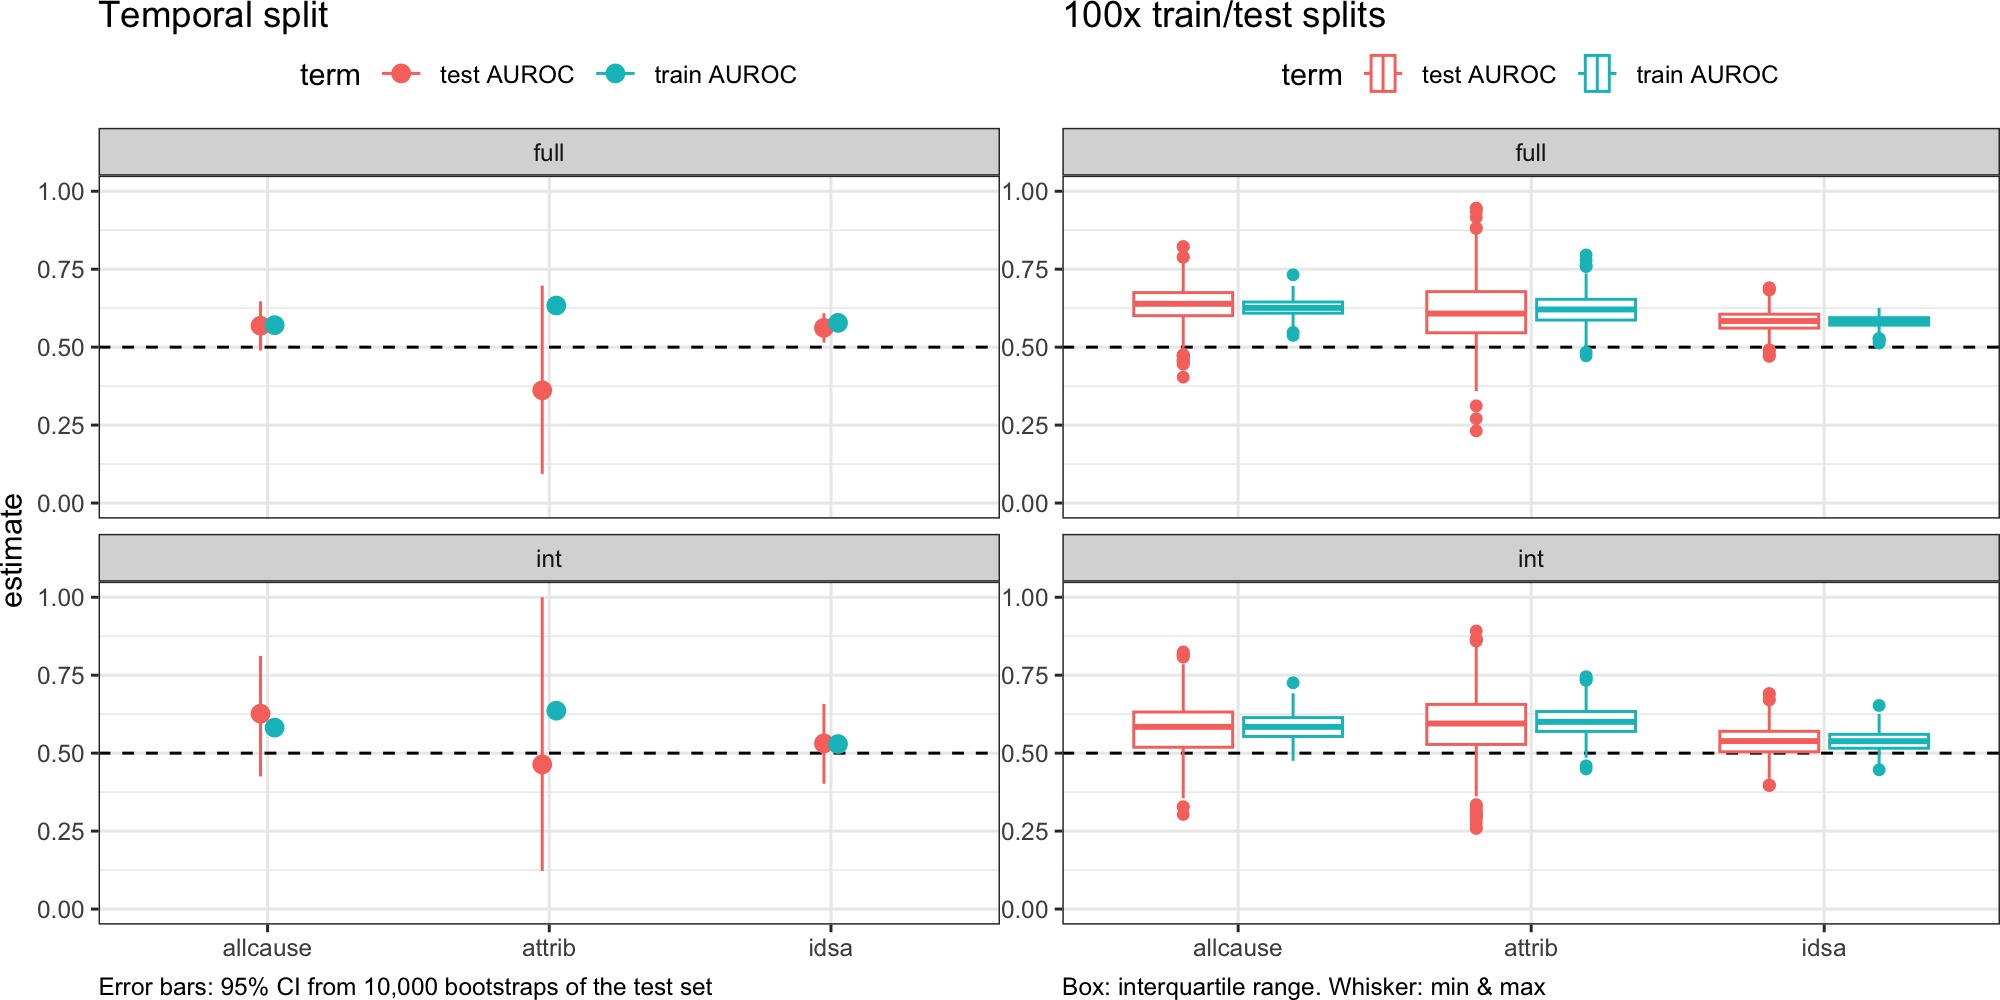
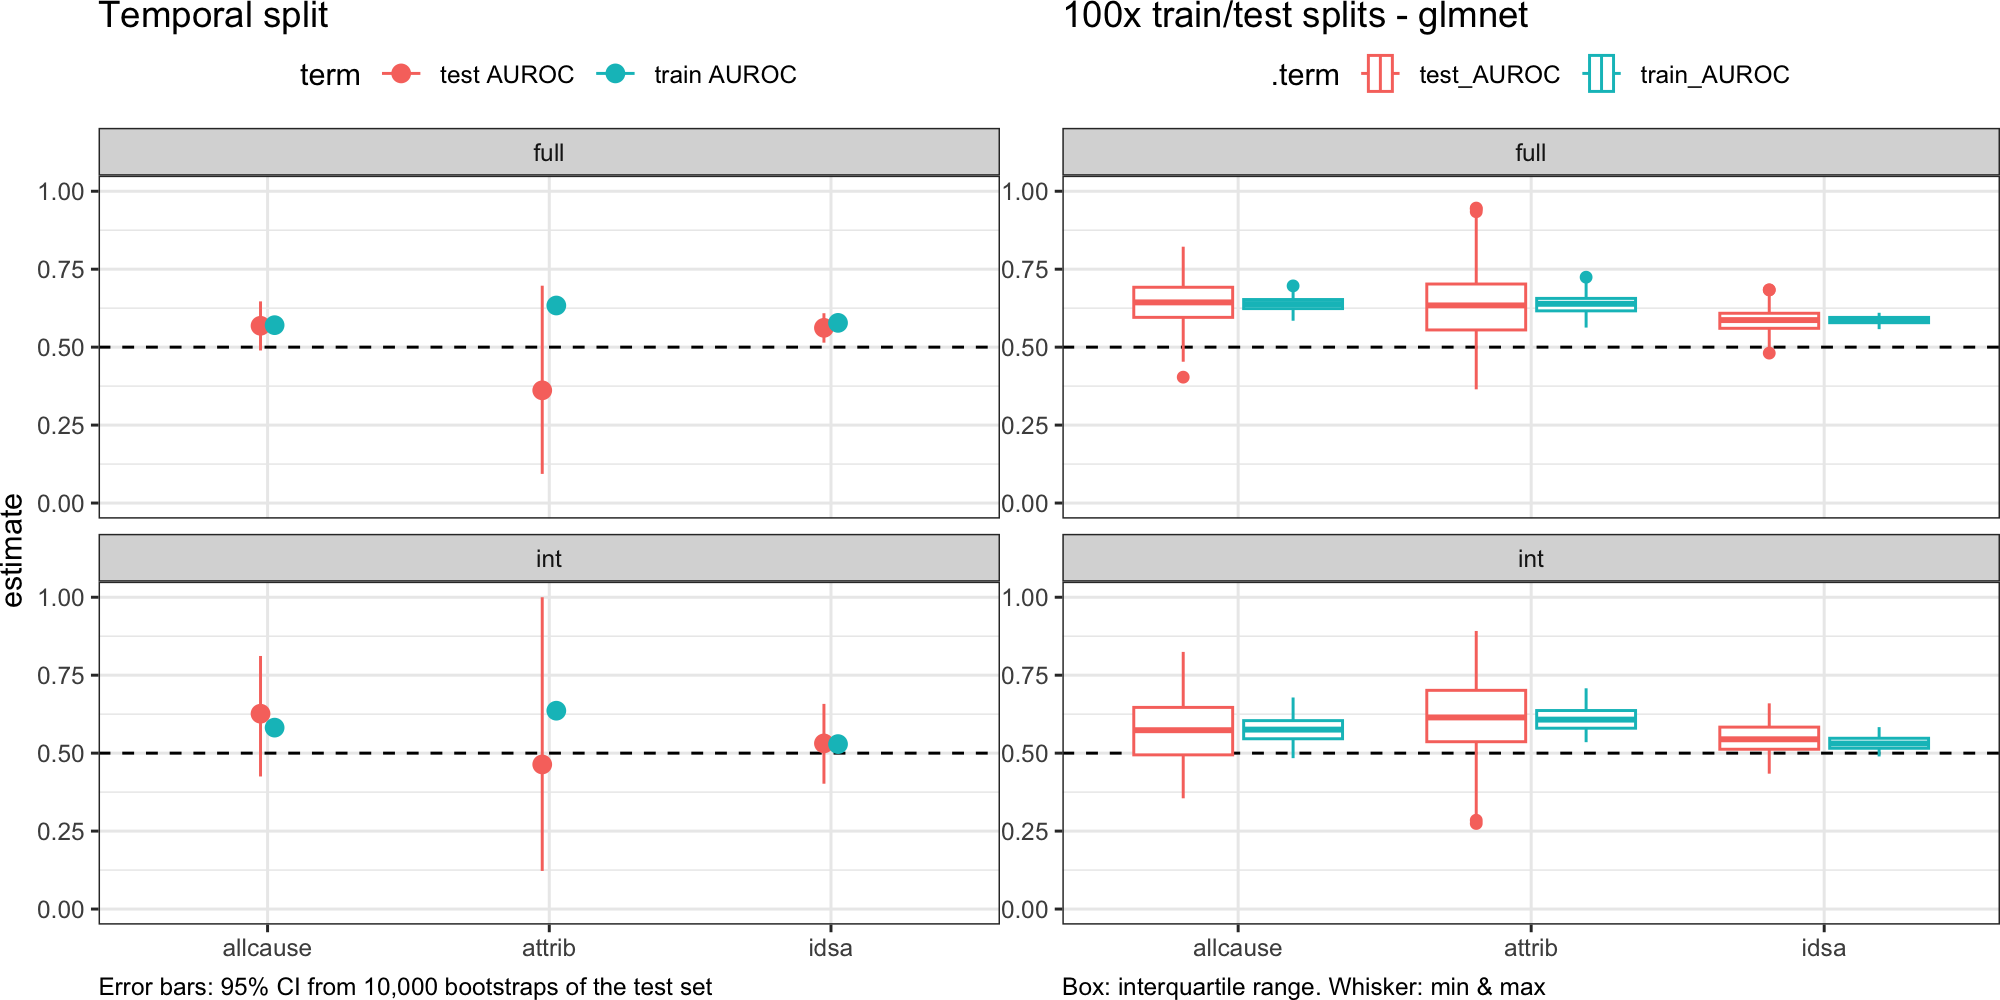
Compare models better

diff --git a/workflow/notebooks/temporal-split.md b/workflow/notebooks/temporal-split.md
@@ -131,21 +131,21 @@ int_pctl(boots, perf) %>%
 
 | term              |    .lower | .estimate |    .upper | .alpha | .method    |
 |:------------------|----------:|----------:|----------:|-------:|:-----------|
-| Accuracy          | 0.6068681 | 0.6505495 | 0.7093407 |   0.05 | percentile |
-| AUC               | 0.4379423 | 0.5509932 | 0.6409095 |   0.05 | percentile |
+| Accuracy          | 0.5288462 | 0.6241758 | 0.6788462 |   0.05 | percentile |
+| AUC               | 0.4338608 | 0.5161223 | 0.5724632 |   0.05 | percentile |
 | Balanced_Accuracy | 0.5000000 | 0.5000000 | 0.5000000 |   0.05 | percentile |
 | cv_metric_AUC     | 0.5290527 | 0.5290527 | 0.5290527 |   0.05 | percentile |
-| Detection_Rate    | 0.0000000 | 0.5230769 | 0.7093407 |   0.05 | percentile |
-| F1                | 0.7633687 | 0.7902767 | 0.8306818 |   0.05 | percentile |
+| Detection_Rate    | 0.0000000 | 0.3670330 | 0.6739011 |   0.05 | percentile |
+| F1                | 0.6880284 | 0.7577616 | 0.8074837 |   0.05 | percentile |
 | Kappa             | 0.0000000 | 0.0000000 | 0.0000000 |   0.05 | percentile |
-| logLoss           | 0.6083392 | 0.6499141 | 0.6790278 |   0.05 | percentile |
-| Neg_Pred_Value    | 0.6060440 | 0.6373626 | 0.6686813 |   0.05 | percentile |
-| Pos_Pred_Value    | 0.6173077 | 0.6538462 | 0.7104396 |   0.05 | percentile |
-| prAUC             | 0.4455217 | 0.5163332 | 0.5829405 |   0.05 | percentile |
-| Precision         | 0.6173077 | 0.6538462 | 0.7104396 |   0.05 | percentile |
-| Recall            | 0.0000000 | 0.8000000 | 1.0000000 |   0.05 | percentile |
-| Sensitivity       | 0.0000000 | 0.8000000 | 1.0000000 |   0.05 | percentile |
-| Specificity       | 0.0000000 | 0.2000000 | 1.0000000 |   0.05 | percentile |
+| logLoss           | 0.6310862 | 0.6715483 | 0.7405178 |   0.05 | percentile |
+| Neg_Pred_Value    | 0.5780220 | 0.6428571 | 0.6703297 |   0.05 | percentile |
+| Pos_Pred_Value    | 0.5247253 | 0.6117216 | 0.6771978 |   0.05 | percentile |
+| prAUC             | 0.4573865 | 0.4967072 | 0.5315906 |   0.05 | percentile |
+| Precision         | 0.5247253 | 0.6117216 | 0.6771978 |   0.05 | percentile |
+| Recall            | 0.0000000 | 0.6000000 | 1.0000000 |   0.05 | percentile |
+| Sensitivity       | 0.0000000 | 0.6000000 | 1.0000000 |   0.05 | percentile |
+| Specificity       | 0.0000000 | 0.4000000 | 1.0000000 |   0.05 | percentile |
 
 ## Plot performance
 
@@ -170,22 +170,56 @@ perf_temp_plot
 
 ``` r
 perf_dat_100 <- data.table::fread(here("results", "performance_results_aggregated.csv")) %>%
-    pivot_longer(c("cv_metric_AUC", "AUC"), names_to = "term", values_to = "estimate") %>%
-    mutate(term = case_when(term == "cv_metric_AUC" ~ "train AUROC", term == "AUC" ~
-        "test AUROC", TRUE ~ term))
-perf_100_plot <- perf_dat_100 %>%
-    ggplot(aes(x = estimate, y = outcome, color = term)) + geom_vline(xintercept = 0.5,
-    linetype = "dashed") + geom_boxplot() + xlim(0, 1) + facet_wrap("dataset", ncol = 1) +
-    coord_flip() + labs(title = "100x train/test splits", caption = "Box: interquartile range. Whisker: min & max") +
-    theme_sovacool() + theme(legend.position = "top", axis.title.x = element_blank(),
-    axis.title.y = element_blank(), plot.caption = element_text(hjust = 0))
-perf_100_plot
+    filter(trainfrac == 0.8, taxlevel == "OTU") %>%
+    pivot_longer(c("cv_metric_AUC", "AUC"), names_to = ".term", values_to = ".estimate") %>%
+    mutate(.term = case_when(.term == "cv_metric_AUC" ~ "train_AUROC", .term == "AUC" ~
+        "test_AUROC", TRUE ~ .term)) %>%
+    select(method, seed, outcome, taxlevel, metric, dataset, trainfrac, .term, .estimate) %>%
+    filter(!is.na(.estimate))
+
+perf_dat_100 %>%
+    group_by(dataset, outcome, .term) %>%
+    summarize(median_est = round(median(.estimate), 3)) %>%
+    pivot_wider(names_from = dataset, values_from = median_est, names_prefix = "median_perf_") %>%
+    kable()
 ```
 
-![](figures/perf_100x-1.png)<!-- -->
+| outcome  | .term       | median_perf_full | median_perf_int |
+|:---------|:------------|-----------------:|----------------:|
+| allcause | test_AUROC  |            0.644 |           0.574 |
+| allcause | train_AUROC |            0.638 |           0.575 |
+| attrib   | test_AUROC  |            0.634 |           0.615 |
+| attrib   | train_AUROC |            0.639 |           0.608 |
+| idsa     | test_AUROC  |            0.587 |           0.544 |
+| idsa     | train_AUROC |            0.587 |           0.531 |
 
 ``` r
-cowplot::plot_grid(perf_temp_plot, perf_100_plot, nrow = 1)
+perf_100_glmnet_plot <- perf_dat_100 %>%
+    ggplot(aes(x = .estimate, y = outcome, color = .term)) + geom_vline(xintercept = 0.5,
+    linetype = "dashed") + geom_boxplot() + xlim(0, 1) + facet_wrap("dataset", ncol = 1) +
+    coord_flip() + labs(title = "100x train/test splits - glmnet", caption = "Box: interquartile range. Whisker: min & max") +
+    theme_sovacool() + theme(legend.position = "top", axis.title.x = element_blank(),
+    axis.title.y = element_blank(), plot.caption = element_text(hjust = 0))
+perf_100_glmnet_plot
+```
+
+![](figures/perf_100_glmnet-1.png)<!-- -->
+
+``` r
+perf_100_rf_plot <- perf_dat_100 %>%
+    filter(method == "rf") %>%
+    ggplot(aes(x = .estimate, y = outcome, color = .term)) + geom_vline(xintercept = 0.5,
+    linetype = "dashed") + geom_boxplot() + xlim(0, 1) + facet_wrap("dataset", ncol = 2) +
+    labs(title = "100x train/test splits - rf", caption = "Box: interquartile range. Whisker: min & max") +
+    theme_sovacool() + theme(legend.position = "top", axis.title.x = element_blank(),
+    axis.title.y = element_blank(), plot.caption = element_text(hjust = 0))
+perf_100_rf_plot
+```
+
+![](figures/perf_100_rf-1.png)<!-- -->
+
+``` r
+cowplot::plot_grid(perf_temp_plot, perf_100_glmnet_plot, nrow = 1)
 ```
 
 ![](figures/perf_temporal_vs_100-1.png)<!-- -->
